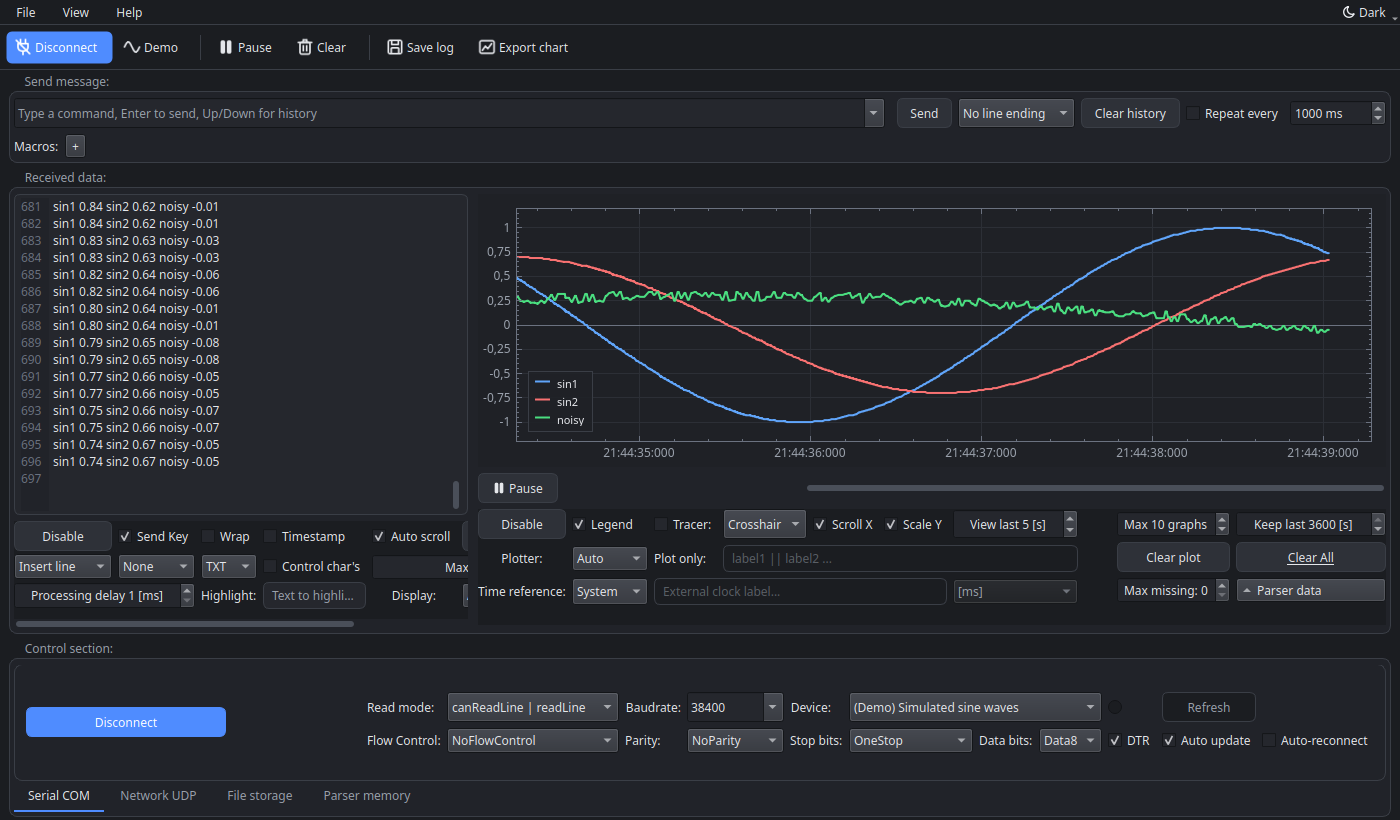
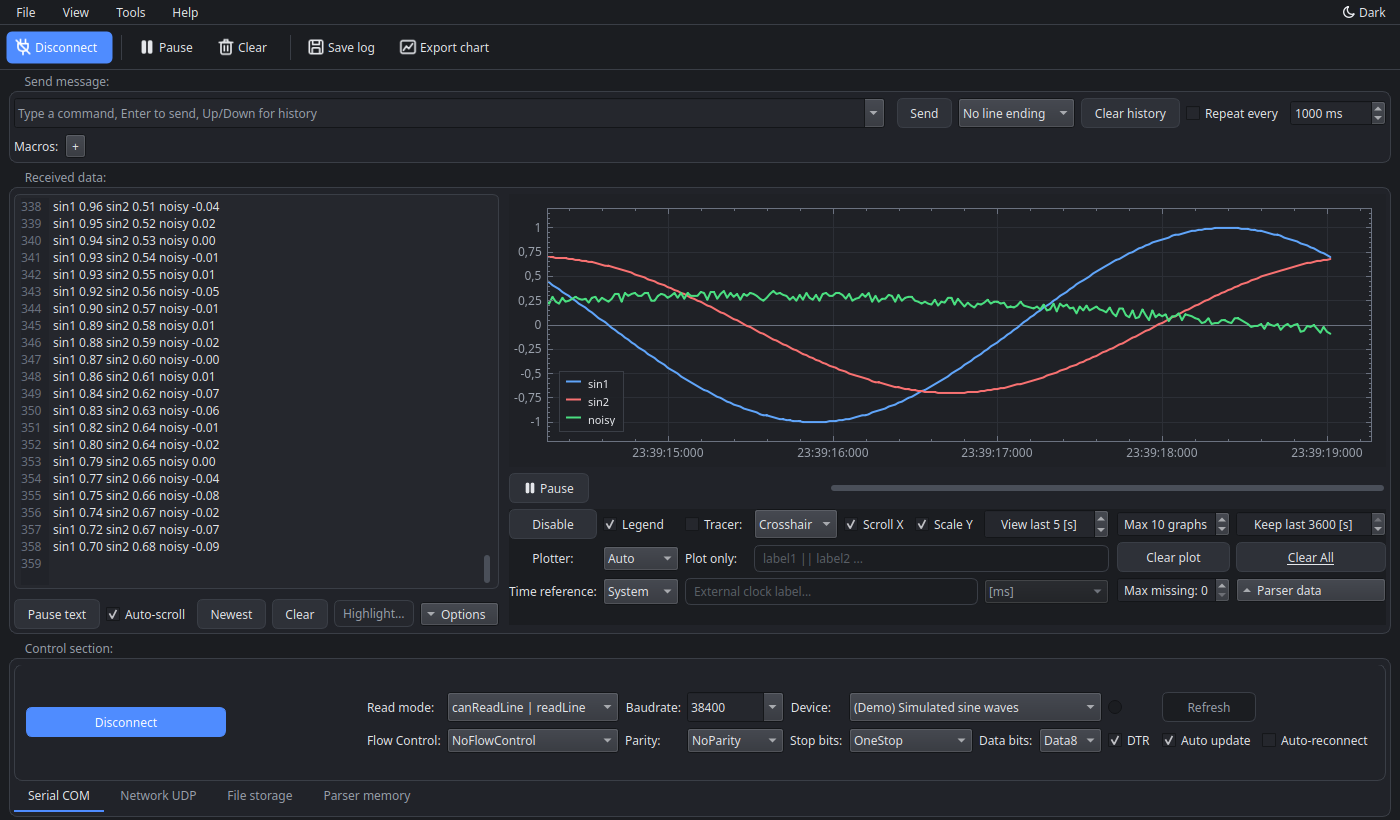
Update the README
- drop the old GIF, use current light/dark screenshots
- quick start with an Arduino snippet
- table of supported data formats and how time stamps work
- section on the 3D orientation view, with a screenshot
- shortcuts, command line options, build options and dependencies
- settings/log locations and license

diff --git a/README.md b/README.md
@@ -1,41 +1,102 @@
 <p align="center">
-  <h1 align="left">QtSerialMonitor </h1>
+  <h1 align="left">QtSerialMonitor</h1>
   <p align="left">
-   <a href="https://github.com/mich-w/QtSerialMonitor/blob/master/LICENSE"> <img alt="license" src="https://img.shields.io/github/license/mich-w/QtSerialMonitor?style=flat-square">   </a>
-   <a href="https://github.com/mich-w/QtSerialMonitor/releases"> <img alt="downloads" src="https://img.shields.io/github/downloads/mich-w/QtSerialMonitor/total?style=flat-square"></a>
-   <a href="https://github.com/mich-w/QtSerialMonitor/releases"> <img alt="latest release" src="https://img.shields.io/github/v/release/mich-w/QtSerialMonitor?style=flat-square"></a>
+   <a href="https://github.com/mich-w/QtSerialMonitor/blob/master/LICENSE"><img alt="license" src="https://img.shields.io/github/license/mich-w/QtSerialMonitor?style=flat-square"></a>
+   <a href="https://github.com/mich-w/QtSerialMonitor/releases"><img alt="downloads" src="https://img.shields.io/github/downloads/mich-w/QtSerialMonitor/total?style=flat-square"></a>
+   <a href="https://github.com/mich-w/QtSerialMonitor/releases"><img alt="latest release" src="https://img.shields.io/github/v/release/mich-w/QtSerialMonitor?style=flat-square"></a>
   </p>
 </p>
 
-Universal serial monitor with data plotting capabilities, based on [Qt](https://www.qt.io/). Designed with all sorts of [Arduino](https://www.arduino.cc/) projects in mind, as a handy tool for debugging and experimentation :) 
-
-<img src="https://raw.githubusercontent.com/mich-w/QtSerialMonitor/master/docs/_screenshots/Sines3.gif">
+Serial monitor and live data plotter built with [Qt](https://www.qt.io/). Made with [Arduino](https://www.arduino.cc/) and other microcontroller projects in mind - print values from your board and see them plotted right away, no special protocol needed.
 
 <p>
-<img src="docs/_screenshots/v2-light.png" width="49%" alt="QtSerialMonitor 2.0, light theme">
-<img src="docs/_screenshots/v2-dark.png" width="49%" alt="QtSerialMonitor 2.0, dark theme">
+<img src="docs/_screenshots/v2-light.png" width="49%" alt="QtSerialMonitor, light theme">
+<img src="docs/_screenshots/v2-dark.png" width="49%" alt="QtSerialMonitor, dark theme">
 </p>
 
-**Features:**
-- Serial and UDP terminal: text, HEX or binary view, command history (Up/Down), macro buttons, periodic send,
-- Live plotter with multiple graphs, pause and history scroll bar, tracer, filtering - uses [QCustomPlot](https://www.qcustomplot.com/),
-- Understands plain `label value` text, CSV, Arduino Serial Plotter (`a:1,b:2`) and [Teleplot](https://github.com/nesnes/teleplot) (`>a:1`) formats,
-- Per-channel statistics: min, max, mean, count and sample rate,
-- 3D orientation view for IMUs: a board rotated by your `roll` / `pitch` / `yaw` values (View → Change visualisation → 3D Orientation),
-- Auto-reconnect when a USB device is unplugged and plugged back in,
-- Read/write ".csv", ".txt" data logs; large files load in the background,
-- Light and dark themes (or follow the system),
-- Demo mode - a simulated device streaming sine waves, no hardware needed (`QtSerialMonitor --demo`),
-- Printer support, export chart as PNG, JPG, BMP or PDF,
-- Runs on Windows, Linux and macOS with Qt 6 (or Qt 5.15).
+## Features
 
-Downloads for Windows and macOS are attached to each [release](https://github.com/mich-w/QtSerialMonitor/releases). See [CHANGELOG.md](CHANGELOG.md) for what changed.
--
----
+- **Terminal** for serial ports and UDP - text, HEX or binary view, highlighting, timestamps
+- **Sending** - command history with Up/Down, macro buttons, periodic send
+- **Live plotter** with any number of graphs - pause, history scroll bar, tracer, zoom, filtering (uses [QCustomPlot](https://www.qcustomplot.com/))
+- **Understands common formats** - plain `label value` text, CSV, Arduino Serial Plotter and [Teleplot](https://github.com/nesnes/teleplot)
+- **Statistics** per channel - min, max, mean, count and sample rate
+- **3D orientation view** for IMUs - a board rotated by your roll / pitch / yaw values
+- **Auto-reconnect** when a USB device is unplugged and plugged back in
+- **Logging** to CSV or text files; logs can be loaded back and plotted
+- **Light and dark theme**, or follow the system
+- **Demo mode** - a simulated device streaming sine waves, no hardware needed
+- Export the chart as PNG, JPG, BMP or PDF, print the chart or the log
+- Windows, Linux and macOS, Qt 6 (or Qt 5.15)
 
-**Building from source:**
+## Download
 
-Requirements: CMake ≥ 3.16, a C++17 compiler and Qt 6 (or Qt 5.15) with the *SerialPort* module.
+Builds for Windows and macOS are attached to each [release](https://github.com/mich-w/QtSerialMonitor/releases). On Linux, [build from source](#building-from-source) - it only takes a minute. See [CHANGELOG.md](CHANGELOG.md) for what's new.
+
+## Quick start
+
+1. Pick your device in the **Serial COM** tab at the bottom, set the baud rate and press **Connect**.
+2. Print values from your board, for example:
+   ```cpp
+   Serial.print("temp ");  Serial.print(temperature);
+   Serial.print(" hum ");  Serial.println(humidity);
+   ```
+3. Each label becomes a graph. That's it.
+
+No board at hand? Use **Tools → Demo device** or start the app with `--demo`.
+
+## Supported data formats
+
+Every received line is searched for label/value pairs. Values without a label are named `Graph 0`, `Graph 1`, ...
+
+| Example | Notes |
+|---|---|
+| `temp 21.5 hum 40` | label and value separated by whitespace |
+| `Roll = 1.23, Pitch = 45.6` | `=` and `,` work as separators too |
+| `Voltage: 1.23	Output: 4.56` | trailing `:` on the label is fine, tabs too |
+| `1.23 4.56` | no labels - `Graph 0`, `Graph 1` |
+| `temp=2.5e-3 rpm=+1200` | scientific notation and explicit signs |
+| `Sensor1:12,Sensor2:34` | Arduino IDE 2 Serial Plotter |
+| `>temp:21.5` | Teleplot, one value per line |
+| `>temp:1627551892437:21.5` | Teleplot with a timestamp in ms |
+
+Time stamps come from the PC clock by default. To use your device's time instead, set **Time reference** under the chart to an external clock - either a label carrying milliseconds (e.g. `time 12345`) or a time of day in the line (`12:34:56.789`).
+
+**CSV files** (also the app's own logs) can be loaded in the **File storage** tab. The first row is the header; `,` `;` and tab delimiters, quoted fields and empty cells are handled.
+
+## 3D orientation view
+
+<img src="docs/_screenshots/v2-orientation.png" width="60%" alt="3D orientation view">
+
+**View → Change visualisation → 3D Orientation** (Ctrl+9) shows a board rotated by the latest `roll`, `pitch` and `yaw` values (label names and degrees/radians can be changed below the view). Positive roll lowers the right side, positive pitch raises the nose, positive yaw turns clockwise seen from above. The demo device sends these values while the view is open.
+
+## Tips
+
+| | |
+|---|---|
+| Ctrl+, | Settings - theme, chart refresh rate, line quality, OpenGL |
+| Space or P (chart focused) | pause / resume the chart |
+| T / X / Y / L (chart focused) | toggle tracer / auto scroll X / auto scale Y / legend |
+| Double-click the chart | fit all data |
+| Middle mouse button drag | zoom into a rectangle |
+| Ctrl+1 / Ctrl+2 / Ctrl+3 | text only / 50:50 / chart only |
+| Ctrl+8 / Ctrl+9 | plotter / 3D orientation |
+| F1 | "What's this?" mode - click any control to see what it does |
+
+At high data rates (hundreds of lines per second) choose **Fast** line rendering in the settings.
+
+## Command line
+
+```
+QtSerialMonitor [--demo] [--demo-rate <hz>] [--help] [--version]
+```
+
+- `--demo` - start streaming from the simulated device
+- `--demo-rate <hz>` - samples per second for the demo device (1-1000, default 50)
+
+## Building from source
+
+Requirements: CMake 3.16+, a C++17 compiler and Qt 6 (or Qt 5.15) with the *SerialPort* module.
 
 ```sh
 cmake -S . -B build -DCMAKE_BUILD_TYPE=Release
@@ -43,23 +104,20 @@ cmake --build build -j
 ./build/QtSerialMonitor
 ```
 
-Try it without any hardware: `./build/QtSerialMonitor --demo` (optionally `--demo-rate 100` for samples per second), or use *Tools → Demo device*. Run with `--help` for all options.
+On Debian/Ubuntu the dependencies are `cmake g++ qt6-base-dev qt6-serialport-dev libqt6opengl6-dev`, on Arch/Manjaro `cmake qt6-base qt6-serialport`.
 
-Qt 6 is used when available; pass `-DQTSM_QT_MAJOR=5` to build against Qt 5.15. If CMake can't find Qt, point it at your installation with `-DCMAKE_PREFIX_PATH=/path/to/Qt/6.x/gcc_64`.
+Options:
 
-----
+- `-DQTSM_QT_MAJOR=5` - build against Qt 5.15 instead of Qt 6
+- `-DQTSM_OPENGL=OFF` - build without the optional OpenGL chart rendering
+- `-DCMAKE_PREFIX_PATH=/path/to/Qt/6.x/gcc_64` - if CMake can't find Qt
 
-***Notes:***
+Run the tests with `ctest --test-dir build`.
 
-* The app uses a custom-written parser, which searches the incoming message for plottable data in form of label-value set. At the moment, all labels and values **must be separated with a whitespace** in order to be recognized. Its possible to use separators like "=" and "," - parser will be replace them with whitespace before processing. If no label is found, a generic name will be used i.e. "Graph 0".*
+## Settings
 
-        Examples of supported formats:
+Settings are saved when the app closes, in an `.ini` file in the user's configuration folder - `%APPDATA%\QtSerialMonitor` on Windows, `~/.config/QtSerialMonitor` on Linux. Logs go to `Documents/QtSerialMonitor/Logs` by default.
 
-        - "Roll = 1.23 Pitch = 45.6"
-        - "Voltage: 1.23 (tabulator) Output: 4.56"
-        - "1.23 4.56" (Graph 0 and Graph 1)
-        - "temp=2.5e-3, rpm=+1200" (scientific notation and signs are supported)
-        - "Sensor1:12,Sensor2:34" (Arduino IDE 2 Serial Plotter format)
-        - ">temp:21.5" or ">temp:1627551892437:21.5" (Teleplot format, one value per line)
- 
-* Application uses QtSettings functionality and stores a simple .ini file on the hard drive in which it keeps its settings. It is stored in the user's configuration directory, e.g. *%APPDATA%\QtSerialMonitor* on Windows or *~/.config/QtSerialMonitor* on Linux. The settings are saved each time the app closes.
+## License
+
+[GPL-3.0](LICENSE). QCustomPlot is GPL-3.0 as well, see [third_party/qcustomplot](third_party/qcustomplot).
